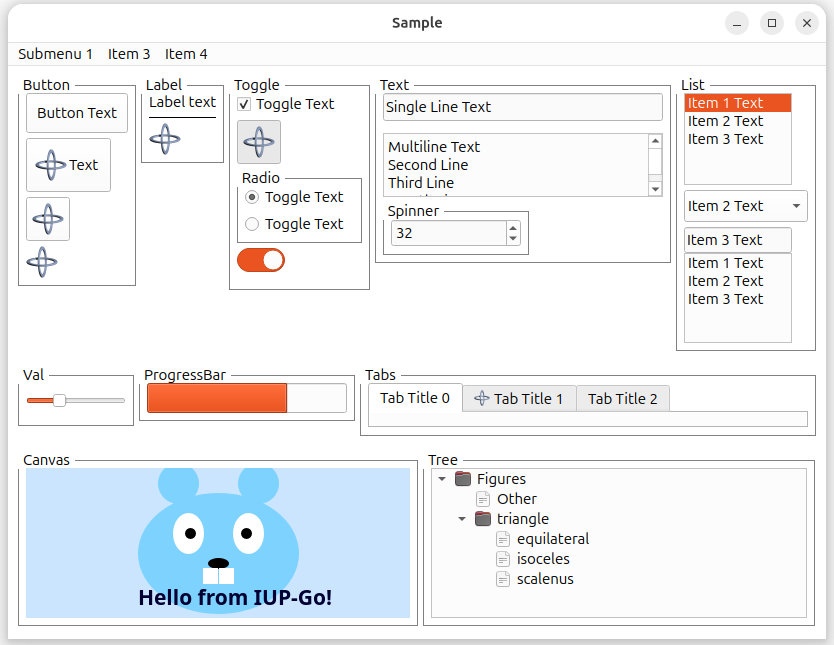
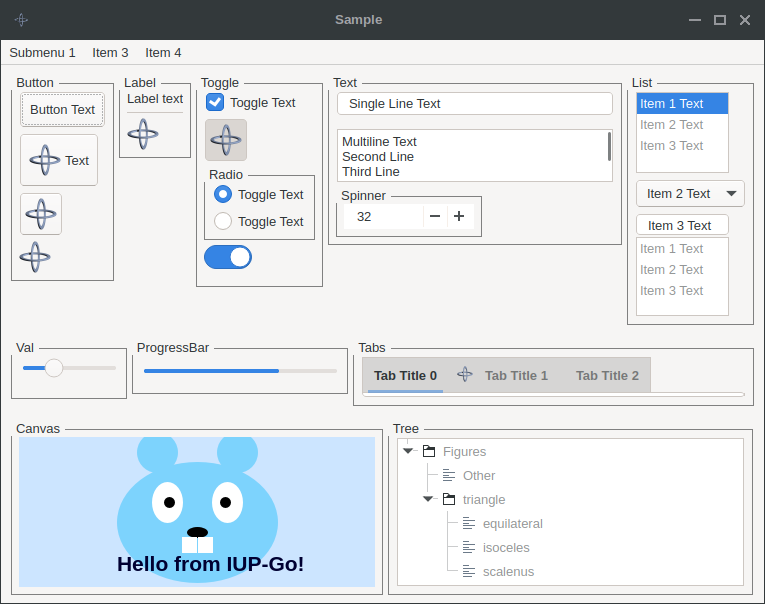
examples: Update screenshots

Changed region(s): [[0.0, 0.0, 1.0, 1.0]]

diff --git a/examples/sample/README.md b/examples/sample/README.md
@@ -21,6 +21,9 @@
 ### macOS GTK3
 [<img src="sample_gtk3_macos.png" width="700" title="macOS GTK3" alt="macOS GTK3" />](sample_gtk3_macos.png)
 
+### Linux GTK4
+[<img src="sample_gtk4.png" width="700" title="Linux GTK4" alt="Linux GTK4" />](sample_gtk4.png)
+
 ### Linux Qt5
 [<img src="sample_qt5.png" width="700" title="Linux Qt5" alt="Linux Qt5" />](sample_qt5.png)
 
